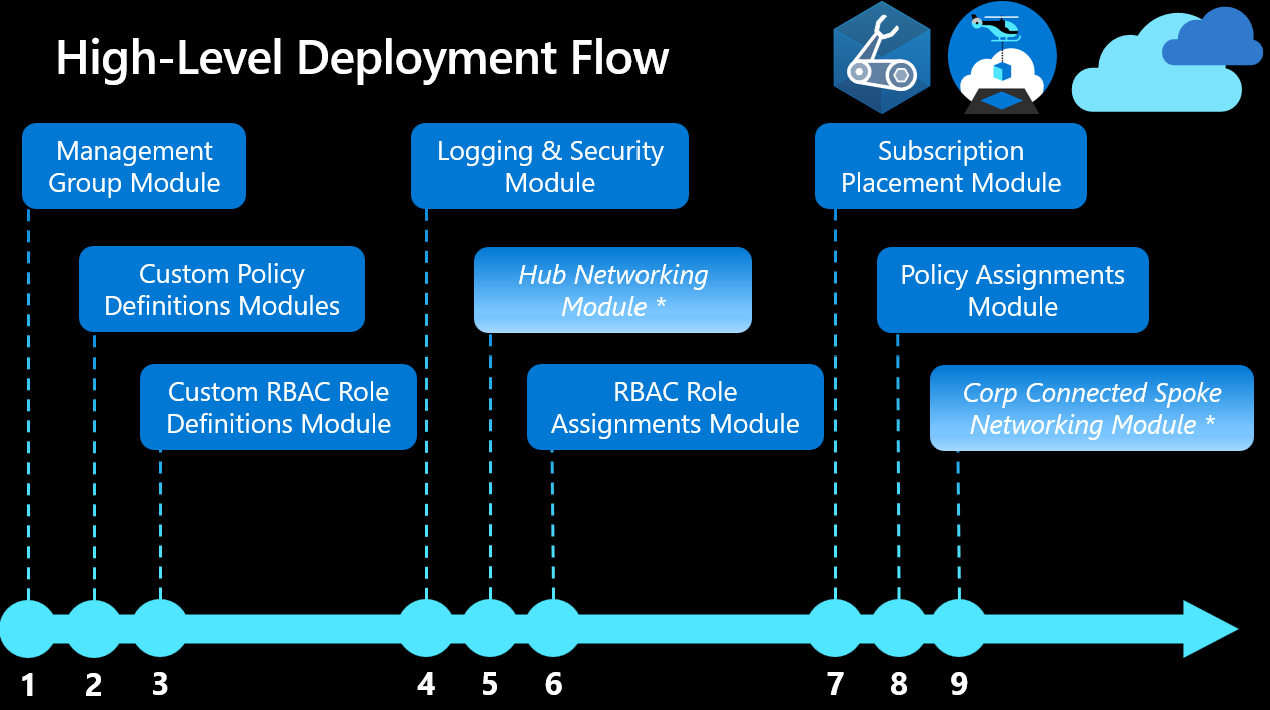
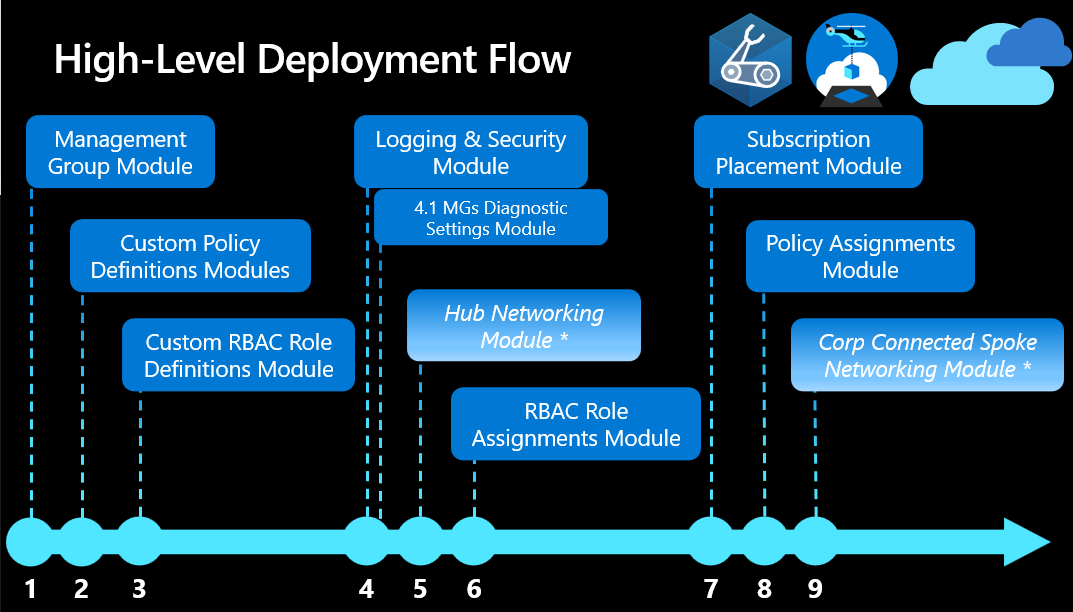
removed LAW ID used in tests from parameters file

diff --git a/docs/wiki/DeploymentFlow.md b/docs/wiki/DeploymentFlow.md
@@ -45,6 +45,7 @@ Modules in this reference implementation must be deployed in the following order
 |   2   | Custom Policy Definitions              | Configures Custom Policy Definitions at the `organization management group`.                                                                                                | Management Groups.                                                     | [infra-as-code/bicep/modules/policy/definitions](https://github.com/Azure/ALZ-Bicep/tree/main/infra-as-code/bicep/modules/policy/definitions)                         |
 |   3   | Custom Role Definitions                | Configures custom roles based on Cloud Adoption Framework's recommendations at the `organization management group`.                                                         | Management Groups.                                                     | [infra-as-code/bicep/modules/customRoleDefinitions](https://github.com/Azure/ALZ-Bicep/tree/main/infra-as-code/bicep/modules/customRoleDefinitions)                   |
 |   4   | Logging & Sentinel                     | Configures a centrally managed Log Analytics Workspace, Automation Account and Sentinel in the `Logging` subscription.                                                      | Management Groups & Subscription for Log Analytics and Sentinel.       | [infra-as-code/bicep/modules/logging](https://github.com/Azure/ALZ-Bicep/tree/main/infra-as-code/bicep/modules/logging)                                               |
+|  4.1  | Management Groups Diagnostic Settings  | Enable Diagnostic Settings for management Groups to the Log Analytics Workspace created in the `Logging` subscription.                                    | Management Groups & Log Analytics Workspace.       | [infra-as-code/bicep/orchestration/mgDiagSettings](https://github.com/Azure/ALZ-Bicep/tree/main/infra-as-code/bicep/orchestration/mgDiagSettings)                                               |
 |   5   | Hub Networking                         | Azure supports two types of hub-and-spoke design, VNet hub and Virtual WAN hub. Creates resources in the `Connectivity` subscription.                                       | Management Groups, Subscription for Hub Networking.                    | [See network topology deployment below](#network-topology-deployment)                                                                                                 |
 |   6   | Role Assignments                       | Creates role assignments using built-in and custom role definitions.                                                                                                        | Management Groups & Subscriptions.                                     | [infra-as-code/bicep/modules/roleAssignments](https://github.com/Azure/ALZ-Bicep/tree/main/infra-as-code/bicep/modules/roleAssignments)                               |
 |   7   | Subscription Placement                 | Moves one or more subscriptions (based on IDs) to the target Management Groups in your ALZ hierarchy.                                                                       | Management Groups & Subscriptions.                                     | [infra-as-code/bicep/orchestration/subPlacementAll](https://github.com/Azure/ALZ-Bicep/tree/main/infra-as-code/bicep/orchestration/subPlacementAll)                   |
